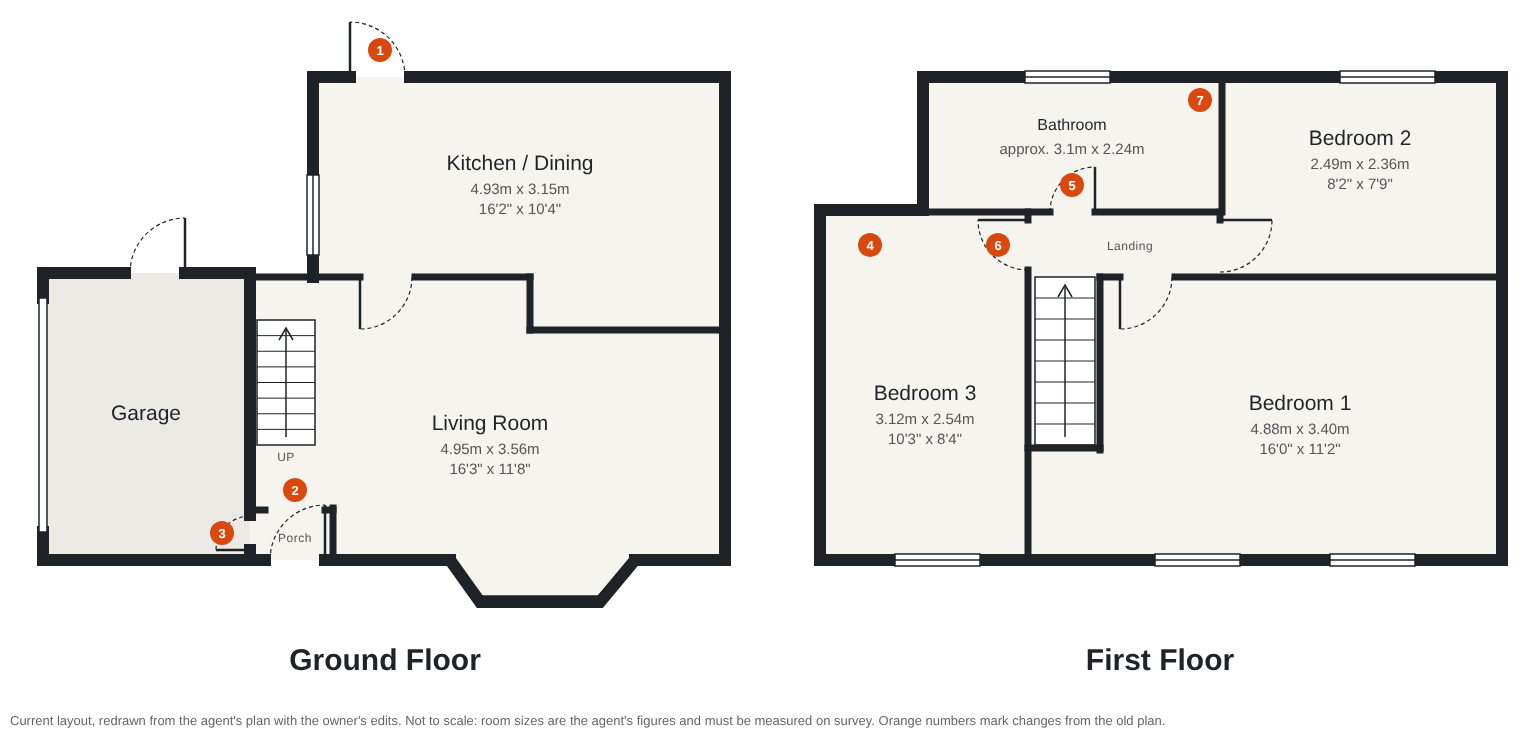
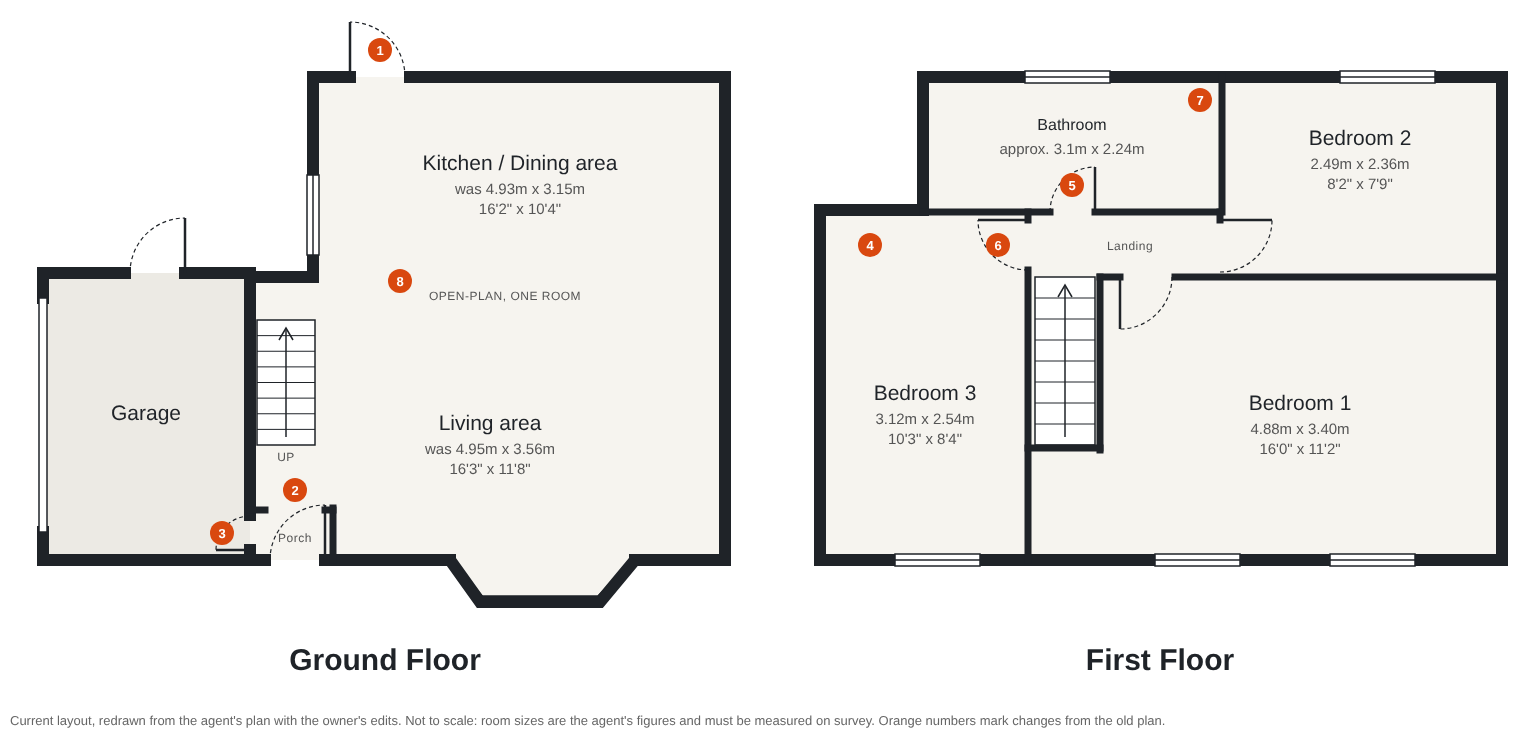
Case study 01: ground floor kitchen and living room are one open-plan room
Claude-Session: https://claude.ai/code/session_01Dp7LLxbeZkoVTKTqZL5vup

Changed region(s): [[0.187, 0.3419, 0.4675, 0.4662], [0.2805, 0.1865, 0.4052, 0.2797], [0.2805, 0.5595, 0.374, 0.6216]]

diff --git a/docs/case-studies/01-three-bed-semi/floor-plan.py b/docs/case-studies/01-three-bed-semi/floor-plan.py
@@ -61,15 +61,15 @@ L(553,97,553,195); L(553,275,553,297); window(553,195,553,275)
 # internal
 L(490,293,490,535,EXT); L(490,570,490,580,EXT)
 door(490,570,0,-1,-1,0,34)                                             # NEW porch -> garage
-L(490,297,600,297,INT); L(655,297,770,297,INT); L(770,297,770,350,INT); L(770,350,965,350,INT)
-door(600,297,1,0,0,1,52)                                               # kitchen <-> living
+L(490,297,553,297,EXT)                                                 # kitchen/living wall removed: one open-plan room
 L(573,528,573,580,INT); L(565,530,573,530,INT); L(490,530,505,530,INT)   # porch nibs, inner door removed
 stairs(497,340,555,465,8)
 room(386,440,"Garage")
-room(760,190,"Kitchen / Dining","4.93m x 3.15m","16'2\" x 10'4\"")
-room(730,450,"Living Room","4.95m x 3.56m","16'3\" x 11'8\"")
+room(760,190,"Kitchen / Dining area","was 4.93m x 3.15m","16'2\" x 10'4\"")
+room(730,450,"Living area","was 4.95m x 3.56m","16'3\" x 11'8\"")
+s.append('<text x="745" y="320" class="small" text-anchor="middle">OPEN-PLAN, ONE ROOM</text>')
 s.append('<text x="535" y="562" class="small" text-anchor="middle">Porch</text>')
-marker(620,70,1); marker(535,510,2); marker(462,553,3)
+marker(620,70,1); marker(640,301,8); marker(535,510,2); marker(462,553,3)
 s.append('<text x="625" y="690" class="floor" text-anchor="middle">Ground Floor</text>')
 
 # ---------- FIRST FLOOR ----------

diff --git a/docs/case-studies/01-three-bed-semi/README.md b/docs/case-studies/01-three-bed-semi/README.md
@@ -15,8 +15,7 @@ Regenerate the drawing with `python3 floor-plan.py floor-plan-current.svg`.
 
 | Floor  | Room             | Agent's size    |
 | ------ | ---------------- | --------------- |
-| Ground | Kitchen / Dining | 4.93m x 3.15m   |
-| Ground | Living Room      | 4.95m x 3.56m   |
+| Ground | Open-plan kitchen, dining and living (one room) | was 4.93m x 3.15m (kitchen) + 4.95m x 3.56m (living) |
 | Ground | Garage           | not given       |
 | First  | Bedroom 1        | 4.88m x 3.40m   |
 | First  | Bedroom 2        | 2.49m x 2.36m   |
@@ -37,6 +36,9 @@ Regenerate the drawing with `python3 floor-plan.py floor-plan-current.svg`.
 7. The bathroom's right-hand wall was knocked down and the bathroom now
    runs over the old cupboard, up to a new wall against Bedroom 2. Its new
    width (about 3.1m) is scaled from the old plan and needs measuring.
+8. The wall between the living room and the kitchen/dining room is gone.
+   The ground floor (apart from the garage and porch) is one open-plan
+   room, with the stairs rising inside it. It is sized as one space.
 
 ### To confirm with the owner
 
